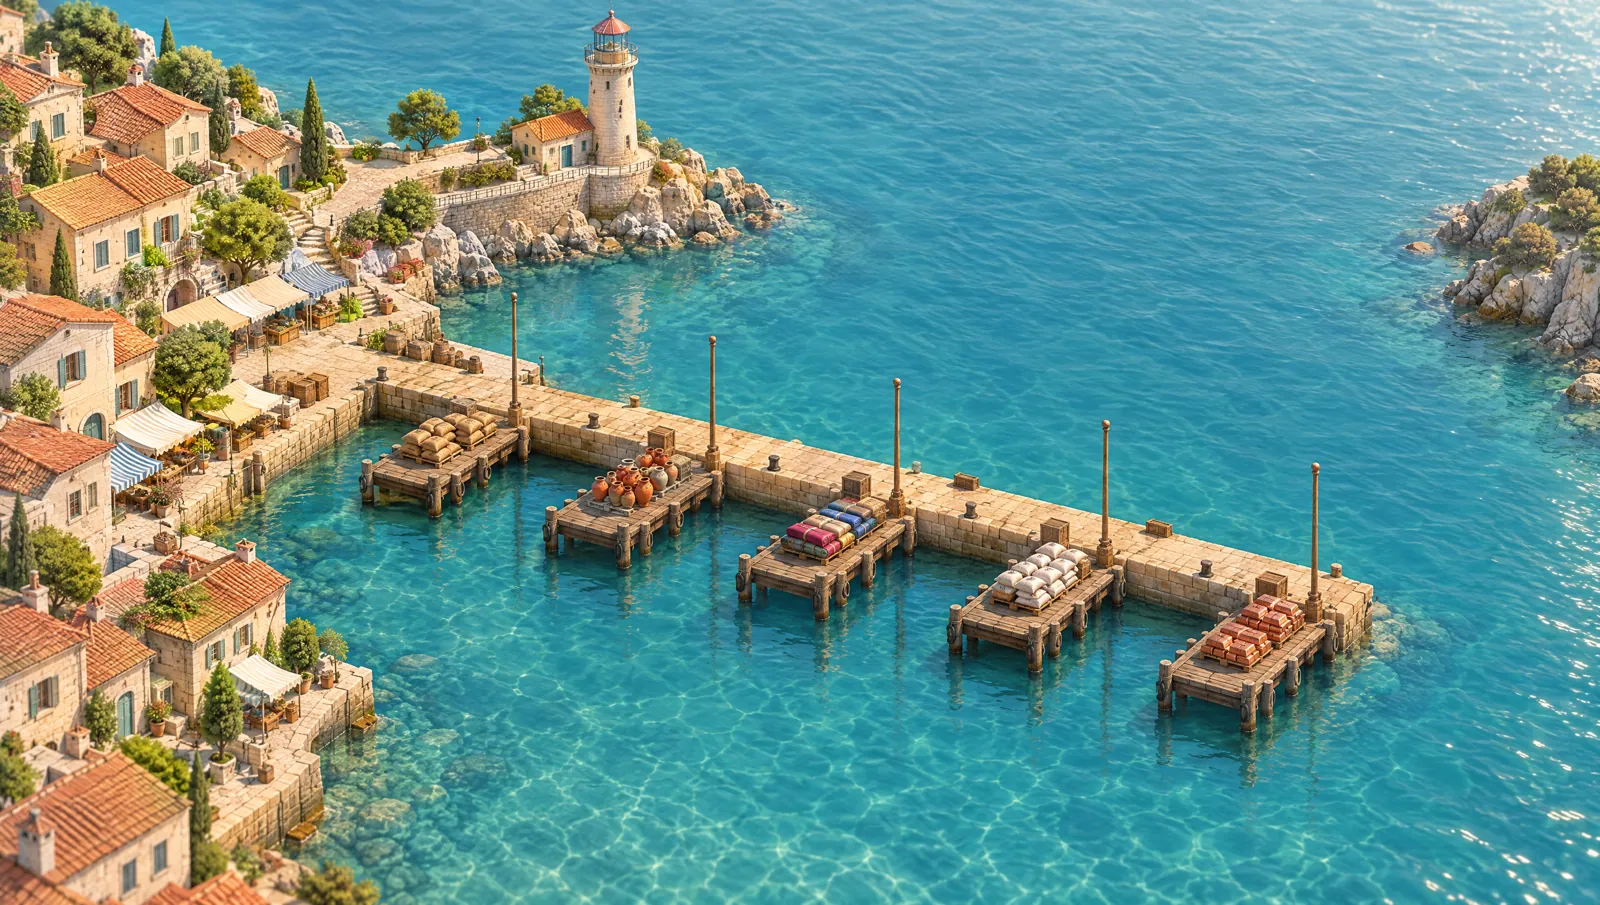
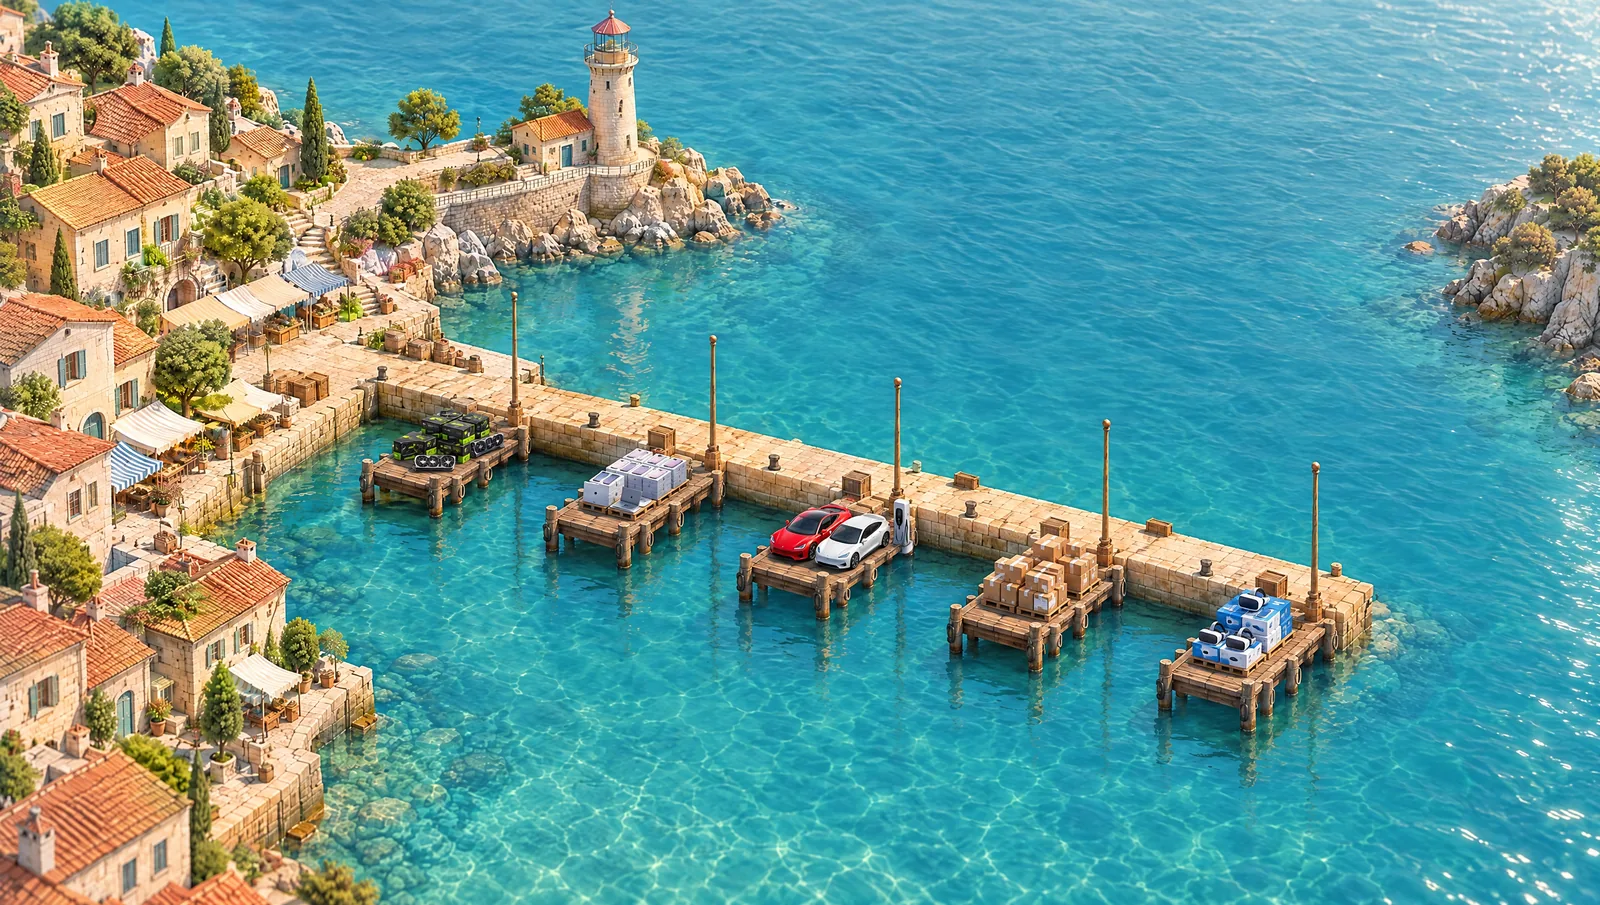
Trade Nvidia, Apple, Tesla, Amazon and Meta instead of made-up companies
Each stock gets its own cargo on its pier: graphics cards, phones, electric
cars, parcels and headsets, regenerated into the same harbour scene with no
brand marks. News is market news (earnings beat, launch sell-out, whale
buying, supply storm, rival fleet), with new trophy, rocket and storm cloud
sprites riding the ship. The keeper renames the testnet assets to the
tickers on boot, and the page says prices are the game's own, not market
data.

diff --git a/web/src/App.tsx b/web/src/App.tsx
@@ -96,10 +96,10 @@ function Onboard({ address, onJoin, busy, error, feeMode }: { address: string; o
       <form className="panel onboard" onSubmit={(e) => { e.preventDefault(); onJoin(name); }}>
         <img className="onboard-face" src={captainArt(address)} alt="Your captain" />
         <h2>Sign the harbour register</h2>
-        <p>You get <b>1,000 DUCAT</b> to invest in the port's five trading companies, and a wallet that lives in this browser. Every trade is a real swap on Portaldot's DEX, and {feeMode === 'native' ? 'the harbour covers your network fees' : 'network fees are paid in DUCAT'}.</p>
+        <p>You get <b>1,000 DUCAT</b> to trade Nvidia, Apple, Tesla, Amazon and Meta shares, and a wallet that lives in this browser. Every trade is a real swap on Portaldot's DEX, and {feeMode === 'native' ? 'the harbour covers your network fees' : 'network fees are paid in DUCAT'}.</p>
         <ol className="steps">
-          <li><b>Read the news.</b> Each round a ship brings news about one trading company.</li>
-          <li><b>Trade before it docks.</b> When it lands, that company's share price jumps or sinks by the posted amount.</li>
+          <li><b>Read the news.</b> Each round a ship brings news about one stock.</li>
+          <li><b>Trade before it docks.</b> When it lands, its share price jumps or sinks by the posted amount.</li>
           <li><b>Sell into the move.</b> Highest net worth tops the captains' board.</li>
         </ol>
         <label>Captain's name<input value={name} onChange={(e) => setName(e.target.value)} maxLength={18} placeholder="e.g. Marlowe" autoFocus /></label>
@@ -157,7 +157,7 @@ function TradeDrawer({ good, initialSide, state, player, pair, onClose, onTraded
           <img src={CARGO[good.symbol]} alt="" />
           <div>
             <h3>{good.name}</h3>
-            <span className="muted"><b className="tkr">{good.symbol}</b> {good.cargo && `${good.cargo} trader · `}{fmt(pool?.price ?? 0, priceDigits(pool?.price ?? 0))} DUCAT a share</span>
+            <span className="muted"><b className="tkr">{good.symbol}</b> {fmt(pool?.price ?? 0, priceDigits(pool?.price ?? 0))} DUCAT a share</span>
           </div>
           <button className="x" onClick={onClose} aria-label="Close">×</button>
         </header>
@@ -541,9 +541,10 @@ export default function App() {
 
         <footer className="foot">
           <button className="link" onClick={() => setHowto(true)}>How to play</button>
-          <span>Wallet {short(pair.address)}</span>
+          <span className="foot-wide">Wallet {short(pair.address)}</span>
           <button className="link" onClick={() => { navigator.clipboard?.writeText(mnemonic); alert('Recovery phrase copied. Keep it somewhere safe.'); }}>Copy recovery phrase</button>
-          <span>{state.mode === 'contract' ? 'News drawn by the Harbour contract' : 'News drawn with on-chain commit-reveal'} · every share price is a live pool on Portaldot V3</span>
+          <span className="foot-wide">{state.mode === 'contract' ? 'News drawn by the Harbour contract' : 'News drawn on-chain'} · live pools on Portaldot V3</span>
+          <span>Game prices, not market data</span>
         </footer>
       </div>
 
@@ -553,8 +554,8 @@ export default function App() {
             <img className="onboard-face" src="/art/ship.webp" alt="" />
             <h2>How to play</h2>
             <ol className="steps">
-              <li><b>Read the news.</b> Each round a ship brings news about one trading company.</li>
-              <li><b>Trade before it docks.</b> When it lands, that company's share price jumps or sinks by the posted amount.</li>
+              <li><b>Read the news.</b> Each round a ship brings news about one stock.</li>
+              <li><b>Trade before it docks.</b> When it lands, its share price jumps or sinks by the posted amount.</li>
               <li><b>Sell into the move.</b> Highest net worth tops the captains' board.</li>
             </ol>
             <button className="btn go wide" onClick={() => setHowto(false)}>Back to the harbour</button>

diff --git a/web/src/mock.ts b/web/src/mock.ts
@@ -3,16 +3,16 @@
 import type { HarbourState, Player } from './api';
 
 const GOODS = [
-  { id: 8801001, symbol: 'BEAN', name: 'Golden Bean', cargo: 'coffee', basePrice: 12 },
-  { id: 8801002, symbol: 'SAFF', name: 'Saffron & Sons', cargo: 'spice', basePrice: 30 },
-  { id: 8801003, symbol: 'JADE', name: 'Jade Silk', cargo: 'silk', basePrice: 55 },
-  { id: 8801004, symbol: 'CLIF', name: 'White Cliffs', cargo: 'salt', basePrice: 4 },
-  { id: 8801005, symbol: 'REDH', name: 'Red Hill', cargo: 'copper', basePrice: 20 },
+  { id: 8801001, symbol: 'NVDA', name: 'Nvidia', cargo: 'chips', basePrice: 12 },
+  { id: 8801002, symbol: 'AAPL', name: 'Apple', cargo: 'phones', basePrice: 30 },
+  { id: 8801003, symbol: 'TSLA', name: 'Tesla', cargo: 'cars', basePrice: 55 },
+  { id: 8801004, symbol: 'AMZN', name: 'Amazon', cargo: 'parcels', basePrice: 4 },
+  { id: 8801005, symbol: 'META', name: 'Meta', cargo: 'headsets', basePrice: 20 },
 ];
 const KINDS = [
-  ['Rivals stormbound', 'rival fleets held offshore, its ships land first', 1], ['Treasure salvaged', 'divers raised a lost cargo from the reef', 1],
-  ['Guild buyout', "the merchants' guild is buying up shares", 1], ['Warehouse glut', 'unsold cargo piling up on the quay', -1],
-  ['Rival fleet', 'three rival ships dropped anchor', -1], ['Calm seas', 'a quiet day on the exchange', 0],
+  ['Earnings beat', 'profits landed well above forecast', 1], ['Launch sell-out', 'the new product is flying off the shelves', 1],
+  ['Whale buying', 'a big fund is scooping up shares', 1], ['Supply storm', 'shipments stuck behind a storm at sea', -1],
+  ['Rival fleet', 'competitors flooded the port with cheaper stock', -1], ['Calm seas', 'a quiet day on the exchange', 0],
 ] as const;
 // ?mock&fast runs short rounds for testing the dock moment.
 const FAST = typeof location !== 'undefined' && new URLSearchParams(location.search).has('fast');

diff --git a/web/src/Flags.tsx b/web/src/Flags.tsx
@@ -1,17 +1,17 @@
-// House flags for the five companies, taken from the International Code of Signals. Drawn as SVG so they stay crisp at any size.
+// A signal flag for each stock's pier, taken from the International Code of Signals. Drawn as SVG so they stay crisp at any size.
 const NAVY = '#1d4f91', RED = '#c4412f', YEL = '#f2c230', WHITE = '#fffdf8';
 
 const flags: Record<string, (w: number, h: number) => JSX.Element> = {
   // K: yellow hoist, blue fly
-  BEAN: (w, h) => (<><rect width={w / 2} height={h} fill={YEL} /><rect x={w / 2} width={w / 2} height={h} fill={NAVY} /></>),
+  NVDA: (w, h) => (<><rect width={w / 2} height={h} fill={YEL} /><rect x={w / 2} width={w / 2} height={h} fill={NAVY} /></>),
   // B: red swallowtail
-  SAFF: (w, h) => <path d={`M0 0H${w}L${w * 0.72} ${h / 2}L${w} ${h}H0Z`} fill={RED} />,
+  AAPL: (w, h) => <path d={`M0 0H${w}L${w * 0.72} ${h / 2}L${w} ${h}H0Z`} fill={RED} />,
   // J: blue, white, blue bands
-  JADE: (w, h) => (<><rect width={w} height={h} fill={NAVY} /><rect y={h / 3} width={w} height={h / 3} fill={WHITE} /></>),
+  TSLA: (w, h) => (<><rect width={w} height={h} fill={NAVY} /><rect y={h / 3} width={w} height={h / 3} fill={WHITE} /></>),
   // C: blue, white, red, white, blue
-  CLIF: (w, h) => (<>{[NAVY, WHITE, RED, WHITE, NAVY].map((c, i) => <rect key={i} y={(h / 5) * i} width={w} height={h / 5 + 0.5} fill={c} />)}</>),
+  AMZN: (w, h) => (<>{[NAVY, WHITE, RED, WHITE, NAVY].map((c, i) => <rect key={i} y={(h / 5) * i} width={w} height={h / 5 + 0.5} fill={c} />)}</>),
   // Y: red and yellow diagonals
-  REDH: (w, h) => (
+  META: (w, h) => (
     <>
       <defs>
         <pattern id="flag-y" width="8" height="8" patternUnits="userSpaceOnUse" patternTransform="rotate(45)">

diff --git a/web/src/styles.css b/web/src/styles.css
@@ -106,9 +106,11 @@ b, .p, .val, dd { font-variant-numeric: tabular-nums; }
 @keyframes bob { 50% { transform: translateY(2%); } }
 .ship.escort { position: absolute; width: 6.2cqw; transform: translate(-50%, -100%); z-index: 1; opacity: 0.96; transition: left 0.3s linear, top 0.3s linear; animation: rock 2.9s ease-in-out infinite; }
 .omen { position: absolute; pointer-events: none; filter: drop-shadow(0 0.4cqw 0.5cqw rgba(0, 0, 0, 0.2)); }
-.omen.k0 { width: 78%; left: 4%; top: -34%; animation: drift 3s ease-in-out infinite; }
+/* Earnings trophy and fund money ride on deck; the launch rocket and the storm cloud hang above. */
+.omen.k0 { width: 40%; left: 40%; top: 30%; animation: bob 2.2s ease-in-out infinite; }
+.omen.k1 { width: 40%; left: 58%; top: -48%; animation: drift 2.6s ease-in-out infinite; }
 .omen.k2 { width: 46%; left: 42%; top: 38%; animation: bob 2s ease-in-out infinite; }
-.omen.k3 { width: 42%; left: 40%; top: 36%; animation: bob 2.4s ease-in-out infinite; }
+.omen.k3 { width: 78%; left: 4%; top: -34%; animation: drift 3s ease-in-out infinite; }
 @keyframes drift { 50% { transform: translateX(6%); } }
 .debris { position: absolute; width: 5cqw; transform: translate(-50%, -50%); animation: bob 3s ease-in-out infinite; z-index: 1; pointer-events: none; }
 .splash {
@@ -278,6 +280,7 @@ b, .p, .val, dd { font-variant-numeric: tabular-nums; }
   .purse .who { display: none; }
   .crate-head img { width: 42px; height: 42px; }
   .crate-head .p { font-size: 18px; }
+  .foot-wide { display: none; }
 }
 @media (max-height: 760px) and (min-width: 761px) {
   .captains { max-height: calc(100dvh - 92px - 180px); }

diff --git a/web/src/art.ts b/web/src/art.ts
@@ -1,5 +1,5 @@
 // Where things sit on the harbour scene (public/art/scene.webp, 2688×1520), in % of its width and height.
-// Measured from the render; piers run left to right in the same order as the companies.
+// Measured from the render; piers run left to right in the same order as the stocks.
 export const SCENE = { w: 2688, h: 1520 };
 
 export interface Pier {
@@ -22,13 +22,13 @@ export const PIERS: Pier[] = [
 /** Ships appear past the top edge, a little to the right of their pier, and sail down onto the quay. */
 export const horizonFor = (berth: [number, number]): [number, number] => [berth[0] + 10, -14];
 
-/** Each company's cargo, by ticker. */
+/** Each stock's cargo, by ticker. */
 export const CARGO: Record<string, string> = {
-  BEAN: '/art/coffee.webp', SAFF: '/art/spice.webp', JADE: '/art/silk.webp', CLIF: '/art/salt.webp', REDH: '/art/copper.webp',
+  NVDA: '/art/chips.webp', AAPL: '/art/phones.webp', TSLA: '/art/car.webp', AMZN: '/art/parcels.webp', META: '/art/headset.webp',
 };
 
 /** One sprite per event kind, in the same order as Harbour.sol's table. */
-export const KIND_ART = ['/art/storm.webp', '/art/wreck.webp', '/art/guild.webp', '/art/harvest.webp', '/art/ship.webp', '/art/sun.webp'];
+export const KIND_ART = ['/art/trophy.webp', '/art/rocket.webp', '/art/guild.webp', '/art/cloud.webp', '/art/ship.webp', '/art/sun.webp'];
 
 /** A captain's face comes from their address, so everyone sees the same one. */
 export function captainArt(address: string) {

diff --git a/keeper/src/chain.ts b/keeper/src/chain.ts
@@ -17,12 +17,12 @@ export const UNIT = 10n ** 10n;
 const ASSET_BASE = Number(process.env.ASSET_BASE ?? 8_801_000);
 export const DUCAT = ASSET_BASE;
 export const GOODS = [
-  // Five harbour trading companies, one per cargo. Shares trade against DUCAT.
-  { id: ASSET_BASE + 1, symbol: 'BEAN', name: 'Golden Bean', cargo: 'coffee', basePrice: 12 },
-  { id: ASSET_BASE + 2, symbol: 'SAFF', name: 'Saffron & Sons', cargo: 'spice', basePrice: 30 },
-  { id: ASSET_BASE + 3, symbol: 'JADE', name: 'Jade Silk', cargo: 'silk', basePrice: 55 },
-  { id: ASSET_BASE + 4, symbol: 'CLIF', name: 'White Cliffs', cargo: 'salt', basePrice: 4 },
-  { id: ASSET_BASE + 5, symbol: 'REDH', name: 'Red Hill', cargo: 'copper', basePrice: 20 },
+  // Five well-known stocks, each arriving as its own cargo. Prices are the game's own pools in DUCAT, not market data.
+  { id: ASSET_BASE + 1, symbol: 'NVDA', name: 'Nvidia', cargo: 'chips', basePrice: 12 },
+  { id: ASSET_BASE + 2, symbol: 'AAPL', name: 'Apple', cargo: 'phones', basePrice: 30 },
+  { id: ASSET_BASE + 3, symbol: 'TSLA', name: 'Tesla', cargo: 'cars', basePrice: 55 },
+  { id: ASSET_BASE + 4, symbol: 'AMZN', name: 'Amazon', cargo: 'parcels', basePrice: 4 },
+  { id: ASSET_BASE + 5, symbol: 'META', name: 'Meta', cargo: 'headsets', basePrice: 20 },
 ] as const;
 
 export const native = 'Native' as const;

diff --git a/keeper/src/events.ts b/keeper/src/events.ts
@@ -5,11 +5,11 @@ import { GOODS, send } from './chain.js';
 
 /** Same table as Harbour.sol: kinds 0-2 push a company's shares up, 3-4 push them down, 5 is a quiet round. */
 export const KINDS = [
-  { name: 'Rivals stormbound', line: 'rival fleets held offshore, its ships land first', dir: 1 },
-  { name: 'Treasure salvaged', line: 'divers raised a lost cargo from the reef', dir: 1 },
-  { name: 'Guild buyout', line: 'the merchants\' guild is buying up shares', dir: 1 },
-  { name: 'Warehouse glut', line: 'unsold cargo piling up on the quay', dir: -1 },
-  { name: 'Rival fleet', line: 'three rival ships dropped anchor', dir: -1 },
+  { name: 'Earnings beat', line: 'profits landed well above forecast', dir: 1 },
+  { name: 'Launch sell-out', line: 'the new product is flying off the shelves', dir: 1 },
+  { name: 'Whale buying', line: 'a big fund is scooping up shares', dir: 1 },
+  { name: 'Supply storm', line: 'shipments stuck behind a storm at sea', dir: -1 },
+  { name: 'Rival fleet', line: 'competitors flooded the port with cheaper stock', dir: -1 },
   { name: 'Calm seas', line: 'a quiet day on the exchange', dir: 0 },
 ] as const;
 

diff --git a/web/src/Harbour.tsx b/web/src/Harbour.tsx
@@ -120,10 +120,9 @@ export function Harbour({ state, player, now, onPick, crowd, pops }: {
             ))}
             <div className={`ship-wrap ${moored ? 'moored' : 'sailing'}`} style={{ left: `${ship[0]}%`, top: `${ship[1]}%`, ['--s' as string]: 0.72 + 0.28 * ease(t) }}>
               <img className="ship" src="/art/ship.webp" alt={`Ship bringing news about ${state.goods[target]?.name}`} />
-              {[0, 2, 3].includes(ev.kind) && <img className={`omen k${ev.kind}`} src={KIND_ART[ev.kind]} alt="" />}
+              {ev.kind < 4 && <img className={`omen k${ev.kind}`} src={KIND_ART[ev.kind]} alt="" />}
               {final !== undefined && <span key={final} className={`count ${final <= 3 ? 'is-urgent' : ''}`}>{final}</span>}
             </div>
-            {ev.kind === 1 && <img className="debris" src={KIND_ART[1]} alt="" style={{ left: `${pier!.berth[0] + 6}%`, top: `${pier!.berth[1] - 12}%` }} />}
             {splash !== undefined && <span className="splash" style={{ left: `${pier!.berth[0]}%`, top: `${pier!.berth[1]}%` }} />}
           </>
         )}

diff --git a/web/index.html b/web/index.html
@@ -4,7 +4,7 @@
     <meta charset="UTF-8" />
     <meta name="viewport" content="width=device-width, initial-scale=1" />
     <title>Portside · the harbour stock exchange on Portaldot</title>
-    <meta name="description" content="Trade shares in five harbour trading companies. Every share price is a live pool on Portaldot's native DEX." />
+    <meta name="description" content="Trade Nvidia, Apple, Tesla, Amazon and Meta in a harbour where the news arrives by ship. Every share price is a live pool on Portaldot's native DEX." />
     <meta property="og:title" content="Portside · the harbour stock exchange" />
     <meta property="og:description" content="Read the ship news, trade company shares before it docks. Every share price is a live pool on Portaldot." />
     <meta property="og:image" content="https://portside.nerom.site/og.jpg" />

diff --git a/README.md b/README.md
@@ -1,10 +1,12 @@
 # Portside
 
-**A harbour trading game where every price is a live pool on Portaldot's native DEX.**
+**A harbour stock exchange where the news arrives by ship and every share price is a live pool on Portaldot's native DEX.**
 
-The first stock exchange grew up on a harbour: in 1600s Amsterdam people traded shares in shipping companies, and a ship coming in, or not, moved the price. Portside rebuilds that on Portaldot.
+The first stock exchange grew up on a harbour: in 1600s Amsterdam a ship coming in, or not, moved the share price of the company that sent it. Portside plays the same game with the stocks people talk about today.
 
-Five trading companies work the port: Golden Bean (BEAN, coffee), Saffron & Sons (SAFF, spice), Jade Silk (JADE), White Cliffs (CLIF, salt) and Red Hill (REDH, copper). Every five minutes a ship brings news about one of them, such as a guild buyout, a salvaged treasure or a rival fleet. Read it, buy or sell its shares before the ship docks and moves the price, and finish the day with the highest net worth.
+Five stocks have a pier each: Nvidia (NVDA, chips), Apple (AAPL, phones), Tesla (TSLA, cars), Amazon (AMZN, parcels) and Meta (META, headsets). Every five minutes a ship brings news about one of them, such as an earnings beat, a launch that sells out or a rival fleet. Read it, buy or sell before the ship docks and moves the price, and finish the day with the highest net worth.
+
+Prices are the game's own pools in DUCAT, not market data, and the game isn't affiliated with any of these companies.
 
 Built for the Portaldot Hacker House 2026 (Ecosystem DApps track).
 
@@ -12,7 +14,7 @@ Built for the Portaldot Hacker House 2026 (Ecosystem DApps track).
 
 | Portaldot V3 feature | How Portside uses it |
 |---|---|
-| `pallet-assets` | DUCAT and the five companies' shares are native assets |
+| `pallet-assets` | DUCAT and the five stocks' shares are native assets |
 | `pallet-asset-conversion` (native DEX) | Each good trades in a DUCAT/good pool, so player trades move the real price |
 | Fee sponsorship | The harbour gives every new captain a small tPOT tank and tops it up, so players never go looking for gas |
 | `pallet-revive` (EVM) | The `Harbour` contract draws each round's event with commit-reveal and anchors daily standings |
@@ -35,7 +37,7 @@ flowchart LR
     A[Game API]
   end
   subgraph Portaldot[Portaldot V3 testnet]
-    AS[pallet-assets<br/>DUCAT + 5 company shares]
+    AS[pallet-assets<br/>DUCAT + 5 stock shares]
     DEX[pallet-asset-conversion<br/>DUCAT/good pools]
     H[Harbour.sol<br/>pallet-revive]
   end
@@ -75,7 +77,7 @@ npm install
 
 ```bash
 ./fork/start.sh                       # ws://127.0.0.1:8000
-cd keeper && npm run setup            # creates DUCAT, company shares, pools
+cd keeper && npm run setup            # creates DUCAT, stock shares, pools
 ROUND_SECONDS=120 npm start           # keeper on :8790
 cd ../web && npm run dev              # game on :5173
 ```
@@ -108,8 +110,8 @@ Live game: **https://portside.nerom.site**, running against the Portaldot V3 tes
[1 lines of base64/hex data omitted]
 | Keeper (Substrate) | `5E7ozxL2HiPecUiSADdwPDLcnowq7QqUcLoLurpyuXVWpu7G` |
 | Keeper (EVM) | `0x586992529e9612533a4EfbAF22e65341Ea5E6c44` |
-| Assets | DUCAT `8801000`, BEAN `8801001`, SAFF `8801002`, JADE `8801003`, CLIF `8801004`, REDH `8801005` (created as Coffee…Copper, renamed on chain by the keeper) |
-| Pools | tPOT/DUCAT plus DUCAT/BEAN, DUCAT/SAFF, DUCAT/JADE, DUCAT/CLIF, DUCAT/REDH on `pallet-asset-conversion` |
+| Assets | DUCAT `8801000`, NVDA `8801001`, AAPL `8801002`, TSLA `8801003`, AMZN `8801004`, META `8801005` (created as Coffee…Copper, renamed on chain by the keeper) |
+| Pools | tPOT/DUCAT plus DUCAT/NVDA, DUCAT/AAPL, DUCAT/TSLA, DUCAT/AMZN, DUCAT/META on `pallet-asset-conversion` |
 
 Transactions from the first play-test on the testnet (Nov 1 2026):
 
@@ -118,5 +120,5 @@ Transactions from the first play-test on the testnet (Nov 1 2026):
[6 lines of base64/hex data omitted]
